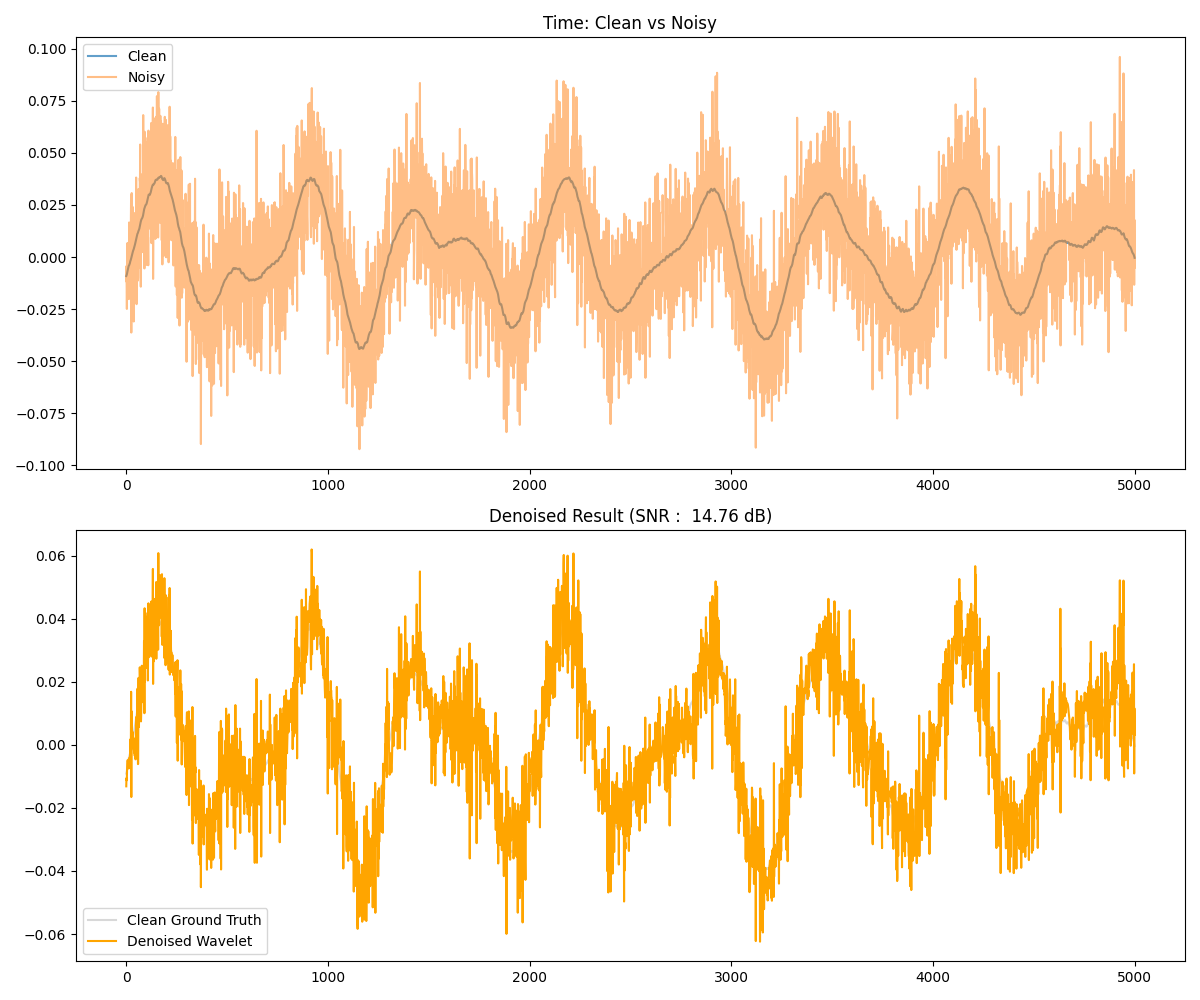
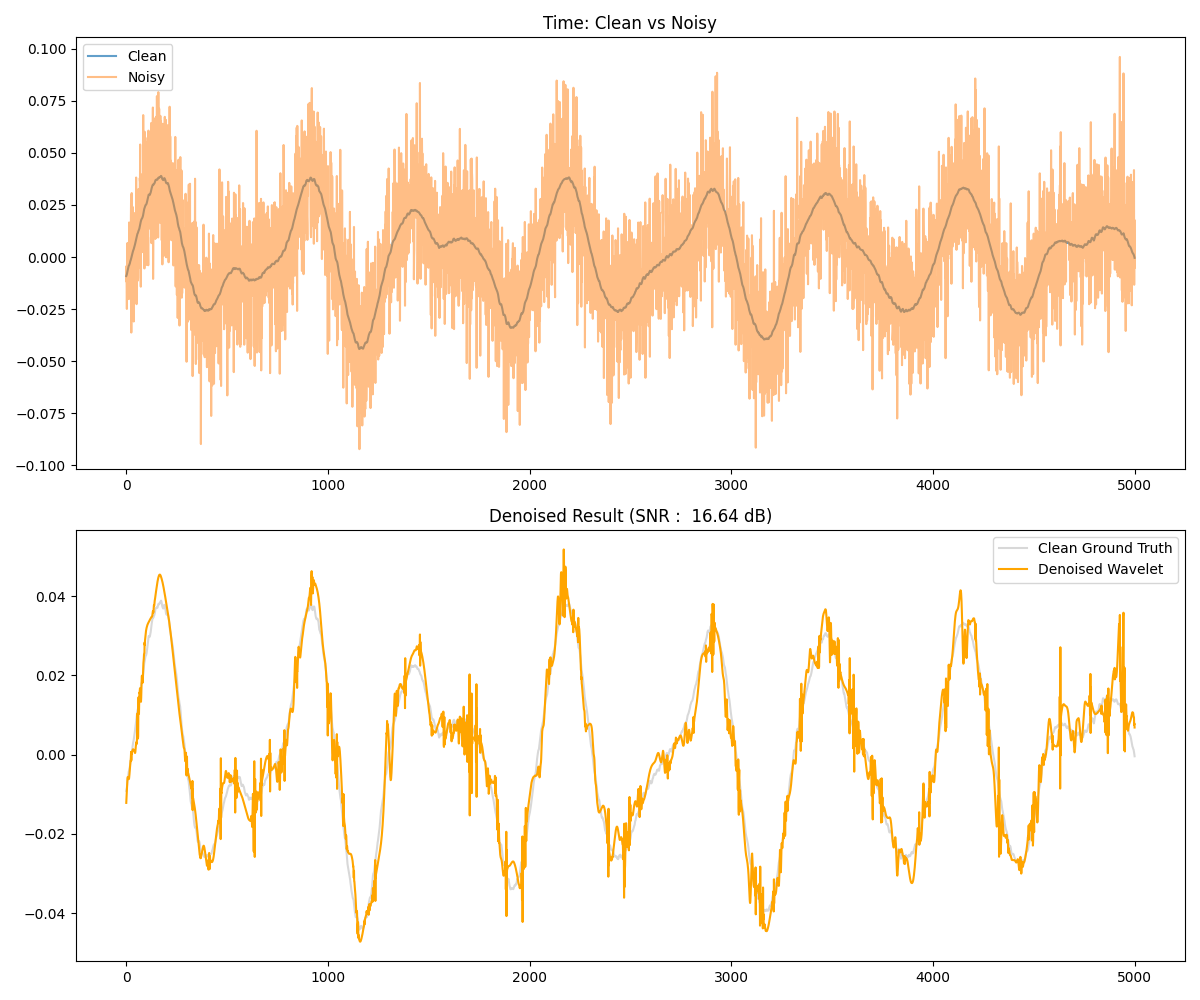
Testing Some More Denoising Values

diff --git a/main.py b/main.py
@@ -27,9 +27,29 @@ def main():
 
     # Decompose the signal
     wavelet_type = 'db8'
-    decomposed_coeffs = pywt.wavedec(noisy_data, wavelet_type, level=5)
+    level = 5
+    decomposed_coeffs = pywt.wavedec(noisy_data, wavelet_type, level=level)
 
-    sigma = np.median(np.abs(decomposed_coeffs[-1])) / .6745
+    denoised_coeffs = [decomposed_coeffs[0]]
+    n = len(noisy_data)
+    for i in range(1, len(decomposed_coeffs)):
+        level_sigma = np.median(np.abs(decomposed_coeffs[i])) / .6745
+        threshold_value = level_sigma * np.sqrt(2 * np.log(n))
+        scale_factor = .15 + (i / len(decomposed_coeffs)) * .35
+        applied_thresh = threshold_value * scale_factor
+        denoised_coeffs.append(pywt.threshold(decomposed_coeffs[i], value=applied_thresh))
+    
+    denoised_data = pywt.waverec(denoised_coeffs, wavelet_type)
+
+    if len(denoised_data) > len(clean_data):
+        denoised_data = denoised_data[:len(clean_data)]
+
+    print(f"Noisy SNR = {snr(clean_data, noisy_data):.2f} dB")
+    print(f"Denoised SNR = {snr(clean_data, denoised_data):.2f} dB")
+
+    save_audio(processed_out, fs, denoised_data)
+
+    '''sigma = np.median(np.abs(decomposed_coeffs[-1])) / .6745
     threshold_value  = sigma * np.sqrt(2 * np.log(len(noisy_data)))
     denoised_coeffs = [decomposed_coeffs[0]]
     for i in range(1, len(decomposed_coeffs)):
@@ -44,7 +64,7 @@ def main():
     print(f"Denoised SNR = {snr(clean_data, denoised_data)} dB")
 
     save_audio(processed_out, fs, denoised_data)
-    print(f"Saved cleaned audio to {processed_out}")
+    print(f"Saved cleaned audio to {processed_out}")'''
 
 
 